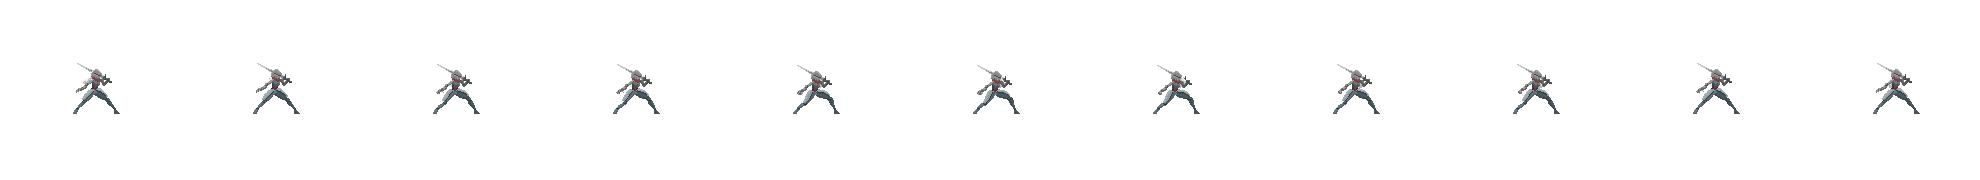
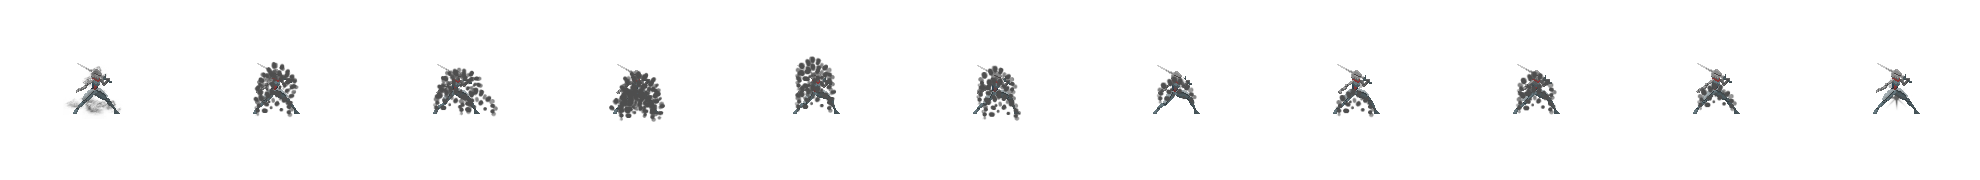
Animazioni di parata definitive per tutti e nove i personaggi
I file IdleBlock.png sono stati rinominati in parry.png, il nome che legge il gioco: prima contenevano ancora il segnaposto copiato da idle.
Numero di frame verificato: coincide con i valori gia' dichiarati in js/Personaggi.js.
Controllo automatico: tutti e 9 i personaggi hanno gli 8 file di stato.
Test: 44 controlli superati.

diff --git a/js/Personaggi.js b/js/Personaggi.js
@@ -15,10 +15,10 @@
 // `ritaglio` è il riquadro esatto del personaggio dentro il frame: serve a
 // ritagliare i ritratti nella schermata di selezione.
 //
-// NOTA: `parry.png` al momento è una copia di `idle.png` (segnaposto).
-// Va sostituito con l'animazione di parata definitiva di ogni personaggio.
+// `parry.png` è l'animazione di parata (blocco) di ogni personaggio.
 //
 // NOTA: i valori dentro `statistiche` sono un primo bilanciamento da confermare.
+// NOTA: salto e caduta di Bakari Traore sono provvisori (assenti nel pacchetto originale).
 
 const PERSONAGGI = [
     {
